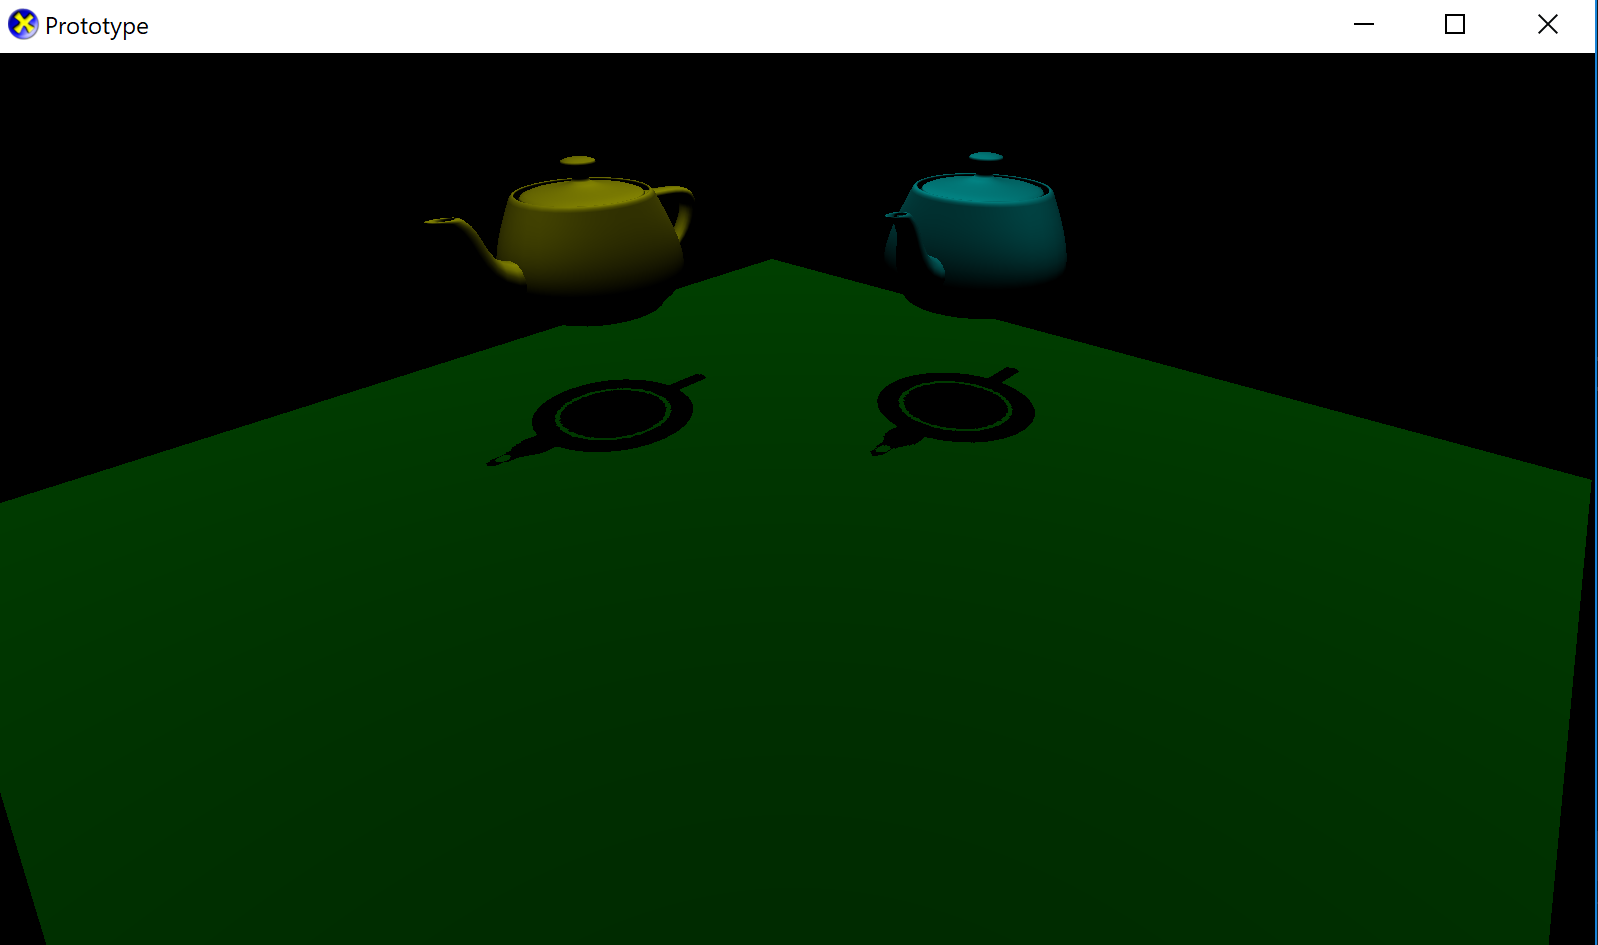
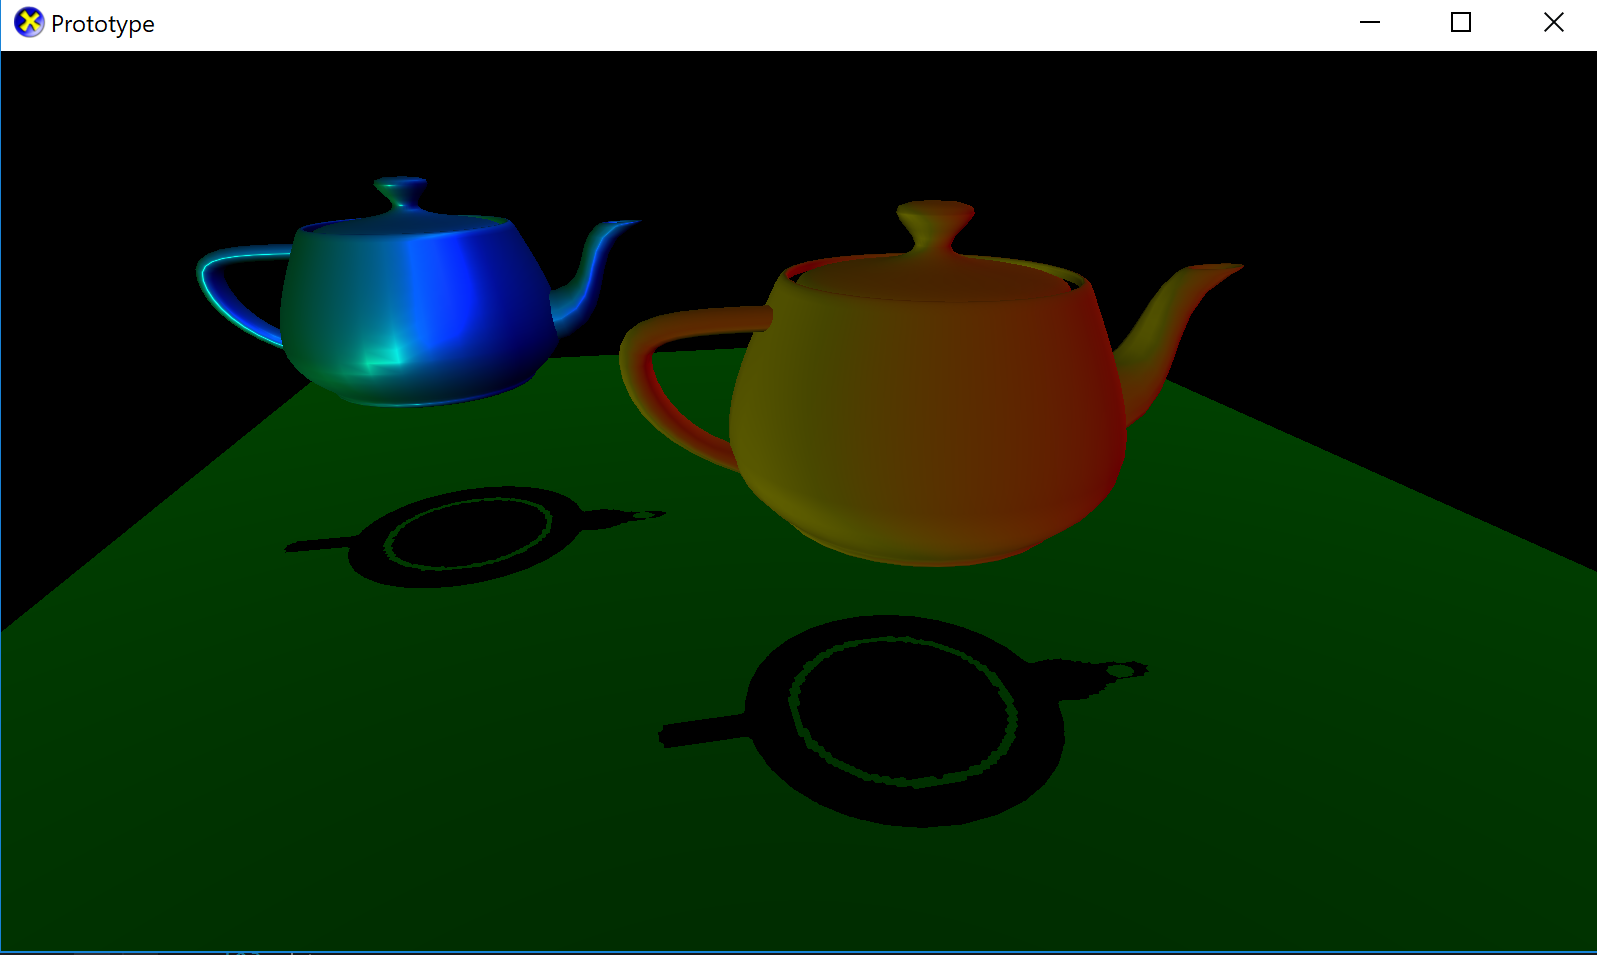
Fixed roughness parameter on PBR_material

diff --git a/Prototype/Game.cpp b/Prototype/Game.cpp
@@ -166,21 +166,19 @@ void Game::CreateLights()
 	lightRoot->setPosition({ 0, 0, 0 });
 	//createDirLight({ 0.5, 0, -1 }, { 1, 1, 1 }, 0.35)->SetParent(*lightRoot);
 	
-	if (true)
+	//if (true)
 	{
 		auto shadowLight = createDirLight({ 0.0f, -1.0f, 0.0f }, { 1, 1, 1 }, 2);
 		shadowLight->setParent(*lightRoot);
 		shadowLight->getFirstComponentOfType<Directional_light_component>()->setShadowsEnabled(true);
 
-		//createDirLight({ -0.707, 0, -0.707 }, { 1, 1, 1 }, 2)->setParent(*lightRoot);
-		//createDirLight({ -0.666, -0.333, 0.666 }, { 1, 0, 1 }, 0.75)->setParent(*lightRoot);
-		
-		//auto shadowLight = createDirLight({ -1.0f, 0, 0 }, { 1, 1, 1 }, 2);
+	    createDirLight({ -0.707, 0, -0.707 }, { 1, 1, 0 }, 2.75)->setParent(*lightRoot);
+		createDirLight({ -0.666, -0.333, 0.666 }, { 1, 0, 1 }, 4.0)->setParent(*lightRoot);
 	}
-	else
+	//else
 	{
-		createPointLight({ 10, 0, 10 }, { 1, 1, 1 }, 13)->setParent(*lightRoot);
-		createPointLight({ 10, 5, -10 }, { 1, 0, 1 }, 20)->setParent(*lightRoot);
+		createPointLight({ 10, 0, 10 }, { 1, 1, 1 }, 2*13)->setParent(*lightRoot);
+		createPointLight({ 10, 5, -10 }, { 1, 0, 1 }, 2*20)->setParent(*lightRoot);
 	}
 
 	//createAmbientLight({ 1, 1, 1 }, 0.2f)->setParent(*lightRoot);
@@ -215,8 +213,8 @@ void Game::CreateGeometricPrimitives()
 
 		std::unique_ptr<PBR_material> material = std::make_unique<PBR_material>();
 		material->setBaseColor(color);
-		material->setMetallicFactor(1.0f);
-		material->setRoughnessFactor(0.0f);
+		material->setMetallicFactor(0.5f);
+		material->setRoughnessFactor(0.5f);
 		
 		auto& renderable = child1->addComponent<Renderable_component>();
 		renderable.setMaterial(std::unique_ptr<Material>(material.release()));

diff --git a/Engine/PBR_material.h b/Engine/PBR_material.h
@@ -87,12 +87,12 @@ namespace oe {
 		 */
 		float roughnessFactor() const
 		{
-			return _metallic;
+			return _roughness;
 		}
 		 
-		void setRoughnessFactor(float metallic)
+		void setRoughnessFactor(float roughness)
 		{
-			_metallic = metallic;
+			_roughness = roughness;
 		}
 
 		const DirectX::SimpleMath::Color& emissiveFactor() const
